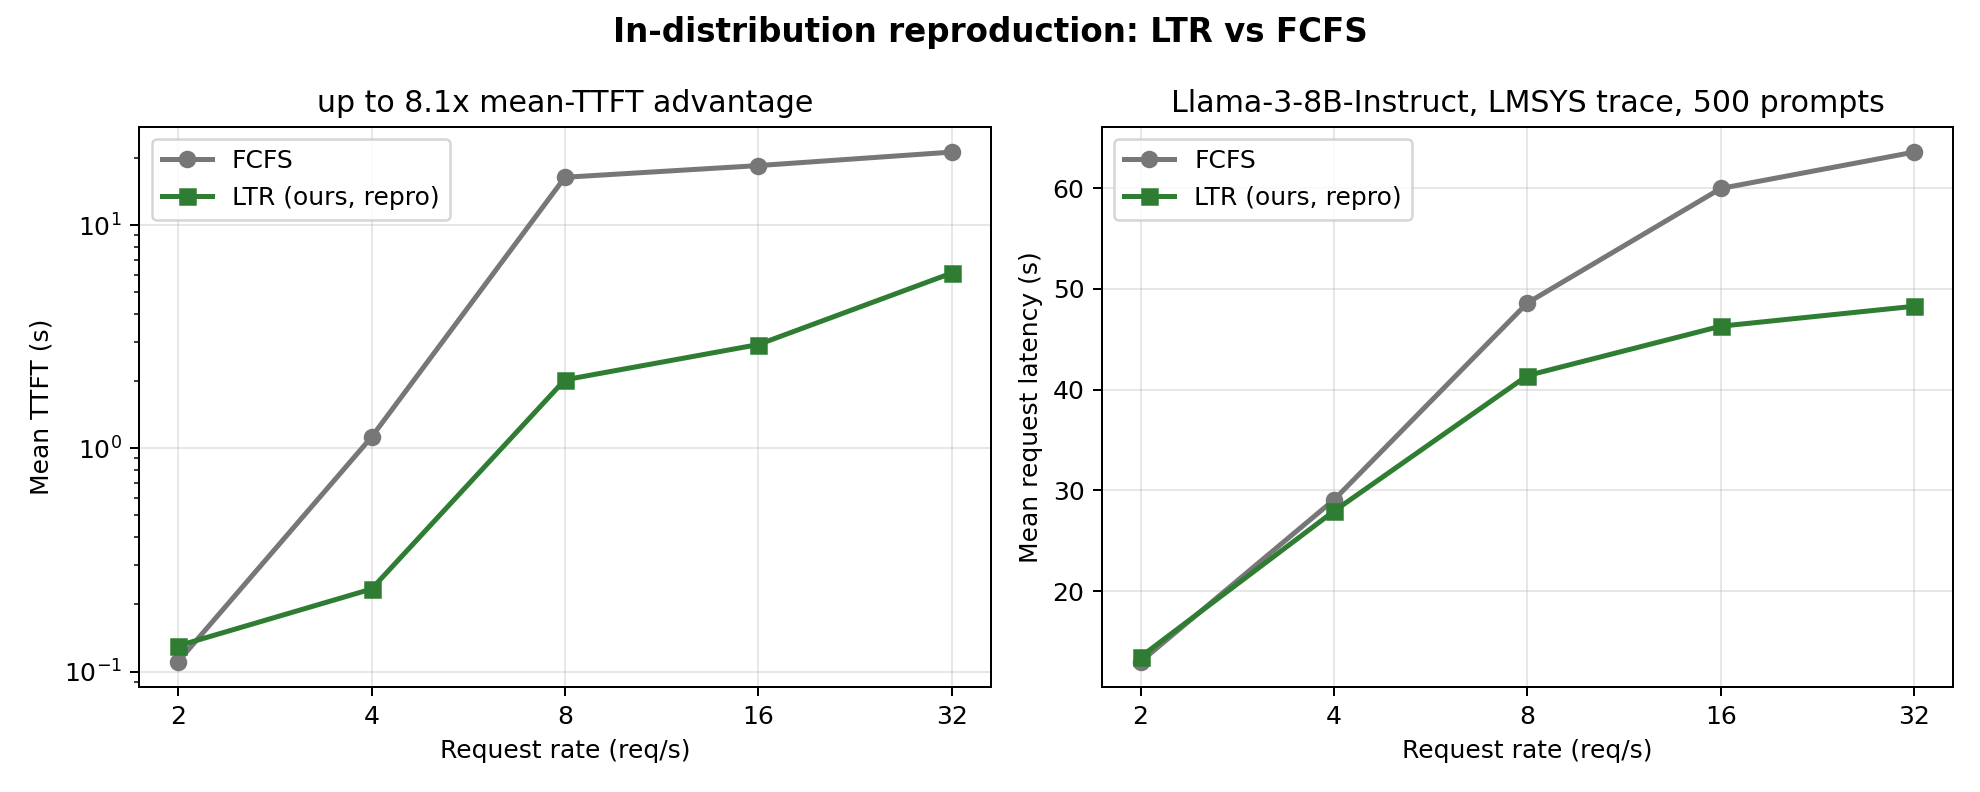
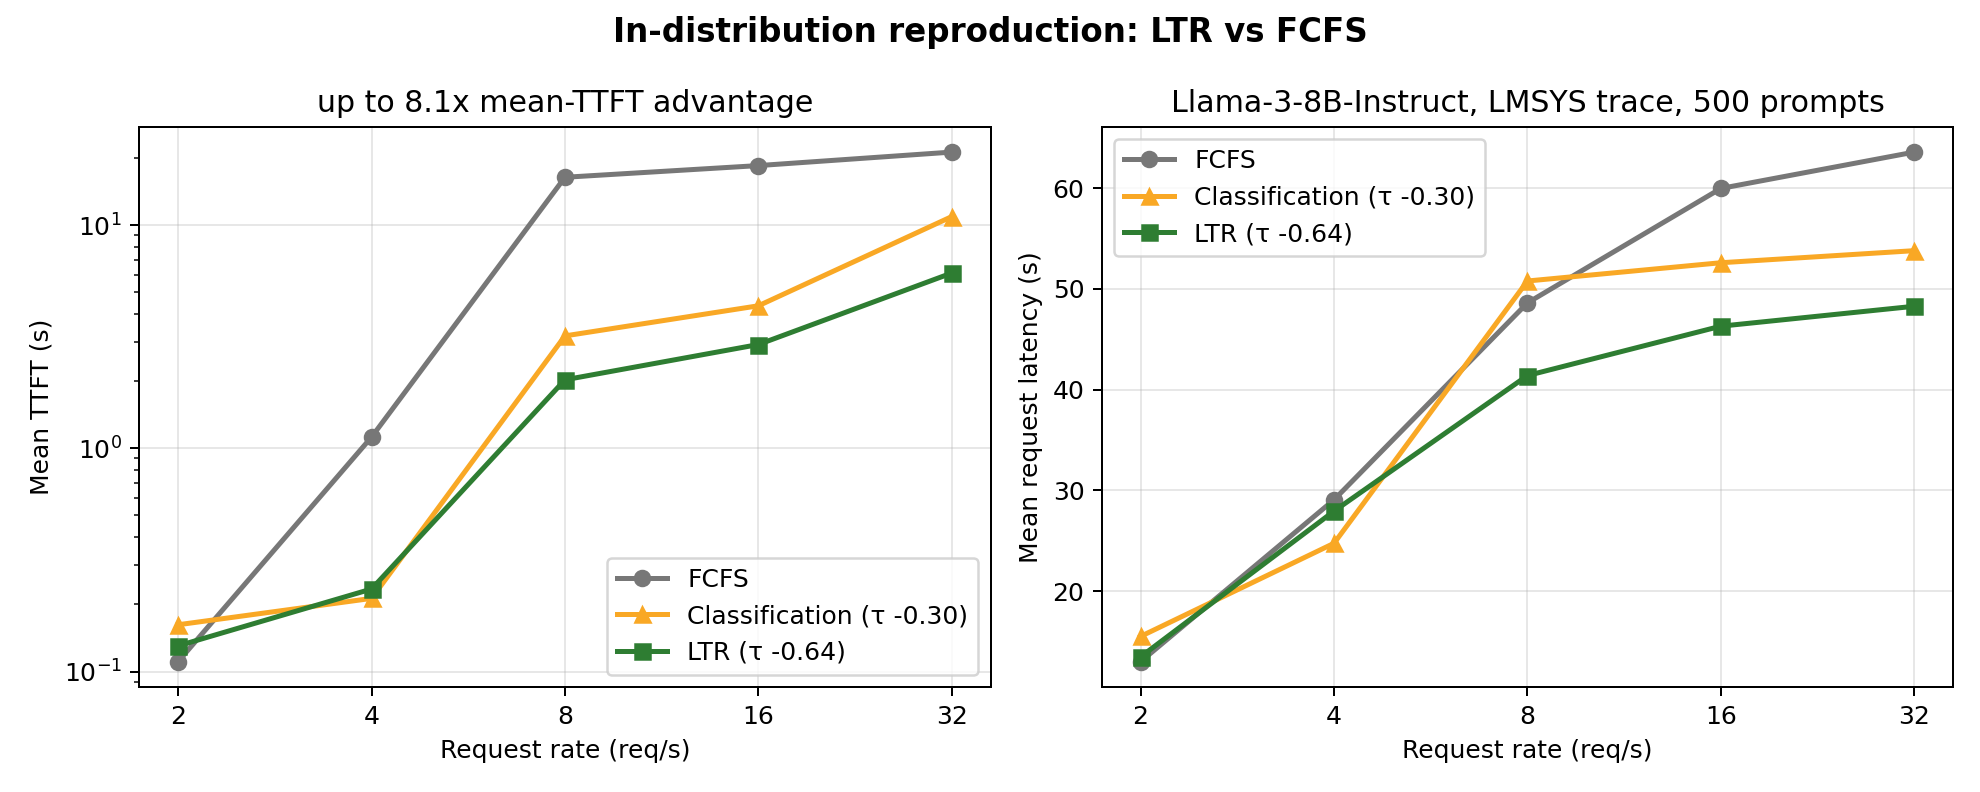
Add rebuild/experiment scripts and three-line main figure
rebuild_hytmp.sh (one-shot data-disk rebuild after migration wipe),
run_class_sweep.sh, cross_tau_matrix.py, internal_signals_tau.py;
main figure now overlays the classification arm with tau values in
the legend, matching the base paper's Fig.3 structure.

diff --git a/scripts/internal_signals_tau.py b/scripts/internal_signals_tau.py
@@ -1,0 +1,101 @@
+#!/usr/bin/env python3
+"""Stage-1 signal screening for the model-internal length-prediction idea.
+
+For the SAME 500 prompts used in serving runs (lmsys + sharegpt), run one
+Llama-3-8B prefill each and extract zero-training internal signals:
+
+  first_tok_entropy  - entropy of the next-token distribution at the last
+                       prompt position (the "first generated token" entropy)
+  mean_entropy       - mean per-position next-token entropy over the prompt
+  entropy_std        - std of per-position entropy
+  mean_nll           - mean negative log-likelihood of prompt tokens
+                       (teacher forcing; ~ prompt perplexity)
+
+Then Kendall tau of each signal vs true output length, in-dist vs OOD,
+against the OPT-125M anchors (lmsys -0.642 / sharegpt -0.420).
+Sign is reported raw; |tau| closer to 0.64 in-dist AND smaller in-dist→OOD
+drop than OPT-125M = the idea survives stage 1.
+
+Run on the 3090 (needs Llama weights local):
+    cd /hy-tmp/vllm-ltr/benchmarks && python3 /hy-tmp/scripts/internal_signals_tau.py
+"""
+import json
+import sys
+
+sys.path.insert(0, "/hy-tmp/vllm-ltr/benchmarks")
+
+import torch
+import scipy.stats
+from transformers import AutoModelForCausalLM, AutoTokenizer
+from benchmark_serving_real import sample_requests
+
+MODEL_DIR = "/hy-tmp/models/Meta-Llama-3-8B-Instruct"
+OUT = "/hy-tmp/results/internal-signals-tau.json"
+ARCHIVE = "/hy-tmp/results/kendall-tau-archive.txt"
+DATASETS = {
+    "lmsys":    "/hy-tmp/vllm-ltr/benchmarks/lmsys-Meta-Llama-3-8B-Instruct-t1.0-s0-l8192-c10000-rFalse.jsonl",
+    "sharegpt": "/hy-tmp/vllm-ltr/benchmarks/llama3-8b-sharegpt-test-t1-s0-8192.jsonl",
+}
+OPT_ANCHOR = {"lmsys": -0.642, "sharegpt": -0.420}
+MAX_LEN = 2048  # same ceiling the OPT predictor sees — fair comparison
+
+
[email redacted]_grad()
+def signals_for(model, tok, prompt):
+    ids = tok(prompt, return_tensors="pt", truncation=True, max_length=MAX_LEN).input_ids.cuda()
+    logits = model(ids).logits.float()[0]            # [T, V]
+    logp = torch.log_softmax(logits, dim=-1)         # [T, V]
+    ent = -(logp.exp() * logp).sum(-1)               # [T] per-position next-token entropy
+    # prompt-token NLL: position t predicts token t+1
+    tgt = ids[0, 1:]
+    nll = -logp[:-1].gather(1, tgt.unsqueeze(1)).squeeze(1)
+    return {
+        "first_tok_entropy": float(ent[-1]),
+        "mean_entropy": float(ent.mean()),
+        "entropy_std": float(ent.std()),
+        "mean_nll": float(nll.mean()),
+    }
+
+
+def main():
+    llama_tok = AutoTokenizer.from_pretrained(MODEL_DIR)
+    model = AutoModelForCausalLM.from_pretrained(
+        MODEL_DIR, torch_dtype=torch.float16, device_map="cuda:0"
+    ).eval()
+
+    report = {}
+    for name, path in DATASETS.items():
+        reqs = sample_requests(path, 500, False, -1, -1, llama_tok, "opt-xxx")
+        prompts = [r[0] for r in reqs]
+        true_lens = [r[2] for r in reqs]
+        rows = []
+        for i, p in enumerate(prompts):
+            rows.append(signals_for(model, llama_tok, p))
+            if (i + 1) % 100 == 0:
+                print(f"{name}: {i + 1}/500")
+        taus = {}
+        for k in rows[0]:
+            tau, pv = scipy.stats.kendalltau([r[k] for r in rows], true_lens)
+            taus[k] = {"tau": float(tau), "p": float(pv)}
+        report[name] = taus
+        print(f"== {name} (OPT-125M anchor tau = {OPT_ANCHOR[name]}) ==")
+        for k, v in taus.items():
+            print(f"   {k:<18} tau={v['tau']:+.4f}  p={v['p']:.2e}")
+
+    json.dump(report, open(OUT, "w"), indent=2)
+    with open(ARCHIVE, "a") as f:
+        for name, taus in report.items():
+            for k, v in taus.items():
+                f.write(f"offline-internal-{k:<18} {name:<18} {v['tau']:+.4f}    {v['p']:.2e}\n")
+
+    print("\n== verdict helper ==")
+    for k in report["lmsys"]:
+        t_in, t_ood = abs(report["lmsys"][k]["tau"]), abs(report["sharegpt"][k]["tau"])
+        drop = (t_in - t_ood) / t_in * 100 if t_in > 0 else float("nan")
+        opt_drop = (0.642 - 0.420) / 0.642 * 100
+        print(f"   {k:<18} |tau| in={t_in:.3f} ood={t_ood:.3f} drop={drop:.0f}%  (OPT-125M: in=0.642 ood=0.420 drop={opt_drop:.0f}%)")
+    print("SIGNALS_DONE ->", OUT)
+
+
+if __name__ == "__main__":
+    main()

diff --git a/scripts/cross_tau_matrix.py b/scripts/cross_tau_matrix.py
@@ -1,0 +1,79 @@
+#!/usr/bin/env python3
+"""Cross-distribution tau matrix: 2 score-predictors x 3 traces (lmsys/sharegpt/alpaca).
+
+Answers direction A's first question: does "just train on the target
+distribution" fix OOD, and what does the generalization landscape look like?
+
+Run on the 3090 (predictor scoring on GPU, minutes):
+    cd /hy-tmp/vllm-ltr/benchmarks && python3 /hy-tmp/scripts/cross_tau_matrix.py
+"""
+import json
+import sys
+
+sys.path.insert(0, "/hy-tmp/vllm-ltr/benchmarks")
+
+import torch
+import scipy.stats
+from transformers import AutoModelForSequenceClassification, AutoTokenizer
+from benchmark_serving_real import sample_requests
+
+MODEL_DIR = "/hy-tmp/models/Meta-Llama-3-8B-Instruct"
+BASE = "/hy-tmp/vllm-ltr/benchmarks/MODEL/results"
+PREDICTORS = {
+    "lmsys-score":    f"{BASE}/opt-125m-llama3-8b-lmsys-score-trainbucket10-b32/finetuned",
+    "sharegpt-score": f"{BASE}/opt-125m-llama3-8b-sharegpt-score-trainbucket10-b32/finetuned",
+}
+TRACES = {
+    "lmsys":    "/hy-tmp/vllm-ltr/benchmarks/lmsys-Meta-Llama-3-8B-Instruct-t1.0-s0-l8192-c10000-rFalse.jsonl",
+    "sharegpt": "/hy-tmp/vllm-ltr/benchmarks/llama3-8b-sharegpt-test-t1-s0-8192.jsonl",
+    "alpaca":   "/hy-tmp/vllm-ltr/benchmarks/llama3-8b-alpaca-test-t1-s0-8192.jsonl",
+}
+OUT = "/hy-tmp/results/cross-tau-matrix.json"
+ARCHIVE = "/hy-tmp/results/kendall-tau-archive.txt"
+
+
[email redacted]_grad()
+def score_all(pred_dir, prompts, bs=16):
+    model = AutoModelForSequenceClassification.from_pretrained(pred_dir, num_labels=1).half().cuda().eval()
+    tok = AutoTokenizer.from_pretrained("facebook/opt-125m")
+    out = []
+    for i in range(0, len(prompts), bs):
+        inp = tok(prompts[i:i + bs], max_length=2048, padding=True, truncation=True, return_tensors="pt")
+        out.extend(model(inp["input_ids"].cuda(), inp["attention_mask"].cuda()).logits.squeeze(-1).float().cpu().tolist())
+    del model
+    torch.cuda.empty_cache()
+    return out
+
+
+def main():
+    llama_tok = AutoTokenizer.from_pretrained(MODEL_DIR)
+    data = {}
+    for tname, tpath in TRACES.items():
+        reqs = sample_requests(tpath, 500, False, -1, -1, llama_tok, "opt-xxx")
+        data[tname] = ([r[0] for r in reqs], [r[2] for r in reqs])
+        print(f"loaded {tname}: 500 prompts")
+
+    matrix = {}
+    for pname, pdir in PREDICTORS.items():
+        matrix[pname] = {}
+        for tname, (prompts, lens) in data.items():
+            tau, pv = scipy.stats.kendalltau(score_all(pdir, prompts), lens)
+            matrix[pname][tname] = {"tau": float(tau), "p": float(pv)}
+            print(f"{pname:<16} x {tname:<9} tau={tau:+.4f} p={pv:.2e}")
+
+    json.dump(matrix, open(OUT, "w"), indent=2)
+    with open(ARCHIVE, "a") as f:
+        for pname, row in matrix.items():
+            for tname, v in row.items():
+                f.write(f"matrix-{pname:<16} {tname:<18} {v['tau']:+.4f}    {v['p']:.2e}\n")
+
+    print("\n=== matrix (|tau|, rows=predictor, cols=trace) ===")
+    cols = list(TRACES)
+    print(" " * 18 + "".join(f"{c:>11}" for c in cols))
+    for pname, row in matrix.items():
+        print(f"{pname:<18}" + "".join(f"{abs(row[c]['tau']):>11.3f}" for c in cols))
+    print("MATRIX_DONE ->", OUT)
+
+
+if __name__ == "__main__":
+    main()

diff --git a/scripts/make_defense_charts.py b/scripts/make_defense_charts.py
@@ -40,7 +40,8 @@ def load(pattern):
 
 def indist(rate, arm):
     # sweep files only (exclude the rate-8 probe runs by timestamp prefix 10*)
-    pat = f"vllm-{rate}.0qps-*-{arm}-20260611-1[01]*.json"
+    pat = f"vllm-{rate}.0qps-*-{arm}-20260611-1[01]*.json" if arm != "tpt-class10-xxx" \
+        else f"vllm-{rate}.0qps-*-{arm}-*.json"
     paths = [p for p in glob.glob(os.path.join(RES, pat)) if "ood" not in p]
     assert len(paths) == 1, f"{pat} -> {paths}"
     return load(os.path.basename(paths[0]))
@@ -96,7 +97,10 @@ def fig_main(sweep):
     for ax, key, label in [(axes[0], "mean_ttft", "Mean TTFT (s)"),
                            (axes[1], "mean_lat", "Mean request latency (s)")]:
         ax.plot(RATES, [sweep[r]["fcfs"][key] for r in RATES], "o-", color=C_FCFS, label="FCFS", lw=2)
-        ax.plot(RATES, [sweep[r]["ltr"][key] for r in RATES], "s-", color=C_LTR, label="LTR (ours, repro)", lw=2)
+        if "cls" in sweep[RATES[0]]:
+            ax.plot(RATES, [sweep[r]["cls"][key] for r in RATES], "^-", color="#F9A825",
+                    label="Classification (τ -0.30)", lw=2)
+        ax.plot(RATES, [sweep[r]["ltr"][key] for r in RATES], "s-", color=C_LTR, label="LTR (τ -0.64)", lw=2)
         ax.set_xlabel("Request rate (req/s)")
         ax.set_ylabel(label)
         ax.set_xscale("log", base=2)
@@ -132,6 +136,11 @@ def fig_cdf(f, l, title, fname):
 def main():
     os.makedirs(OUT, exist_ok=True)
     sweep = {r: {"fcfs": indist(r, "fcfs"), "ltr": indist(r, "opt-xxx")} for r in RATES}
+    try:
+        for r in RATES:
+            sweep[r]["cls"] = indist(r, "tpt-class10-xxx")
+    except AssertionError:
+        pass  # class arm not run yet — fall back to two lines
     ood4f, ood4l = ood(4, "fcfs"), ood(4, "opt-xxx")
 
     fig_motivation(sweep[4]["fcfs"], sweep[4]["ltr"], ood4f, ood4l)